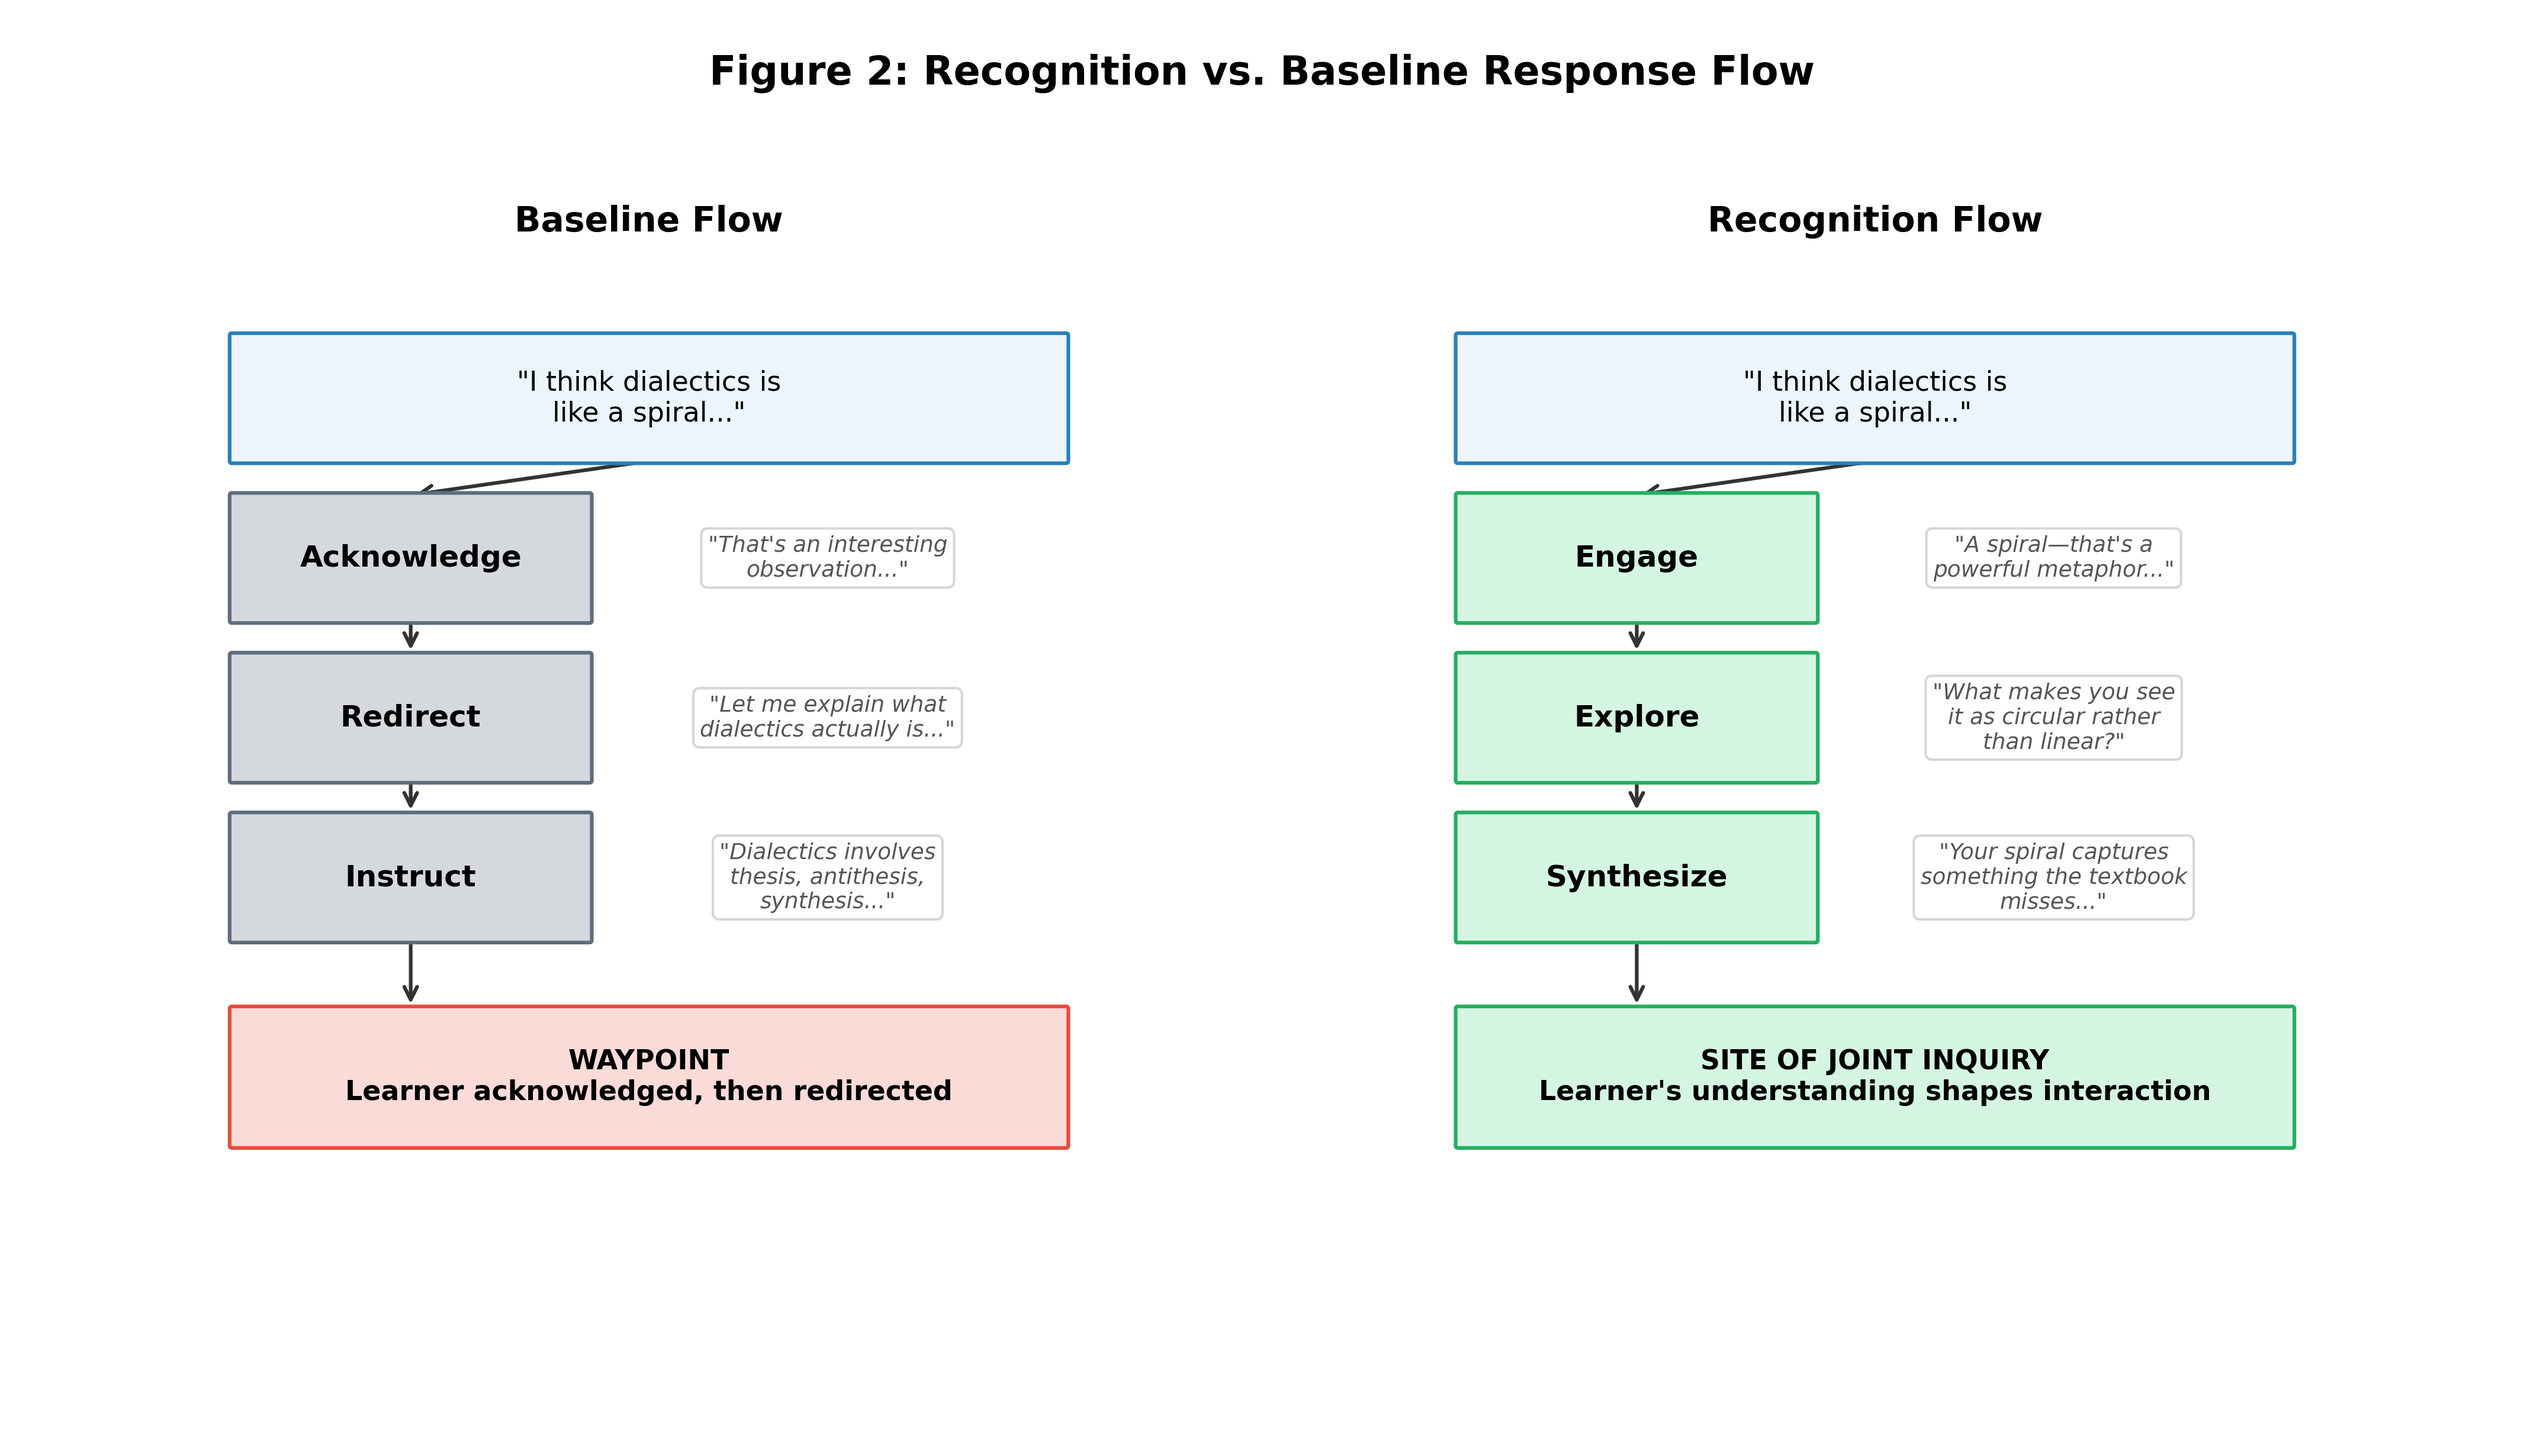
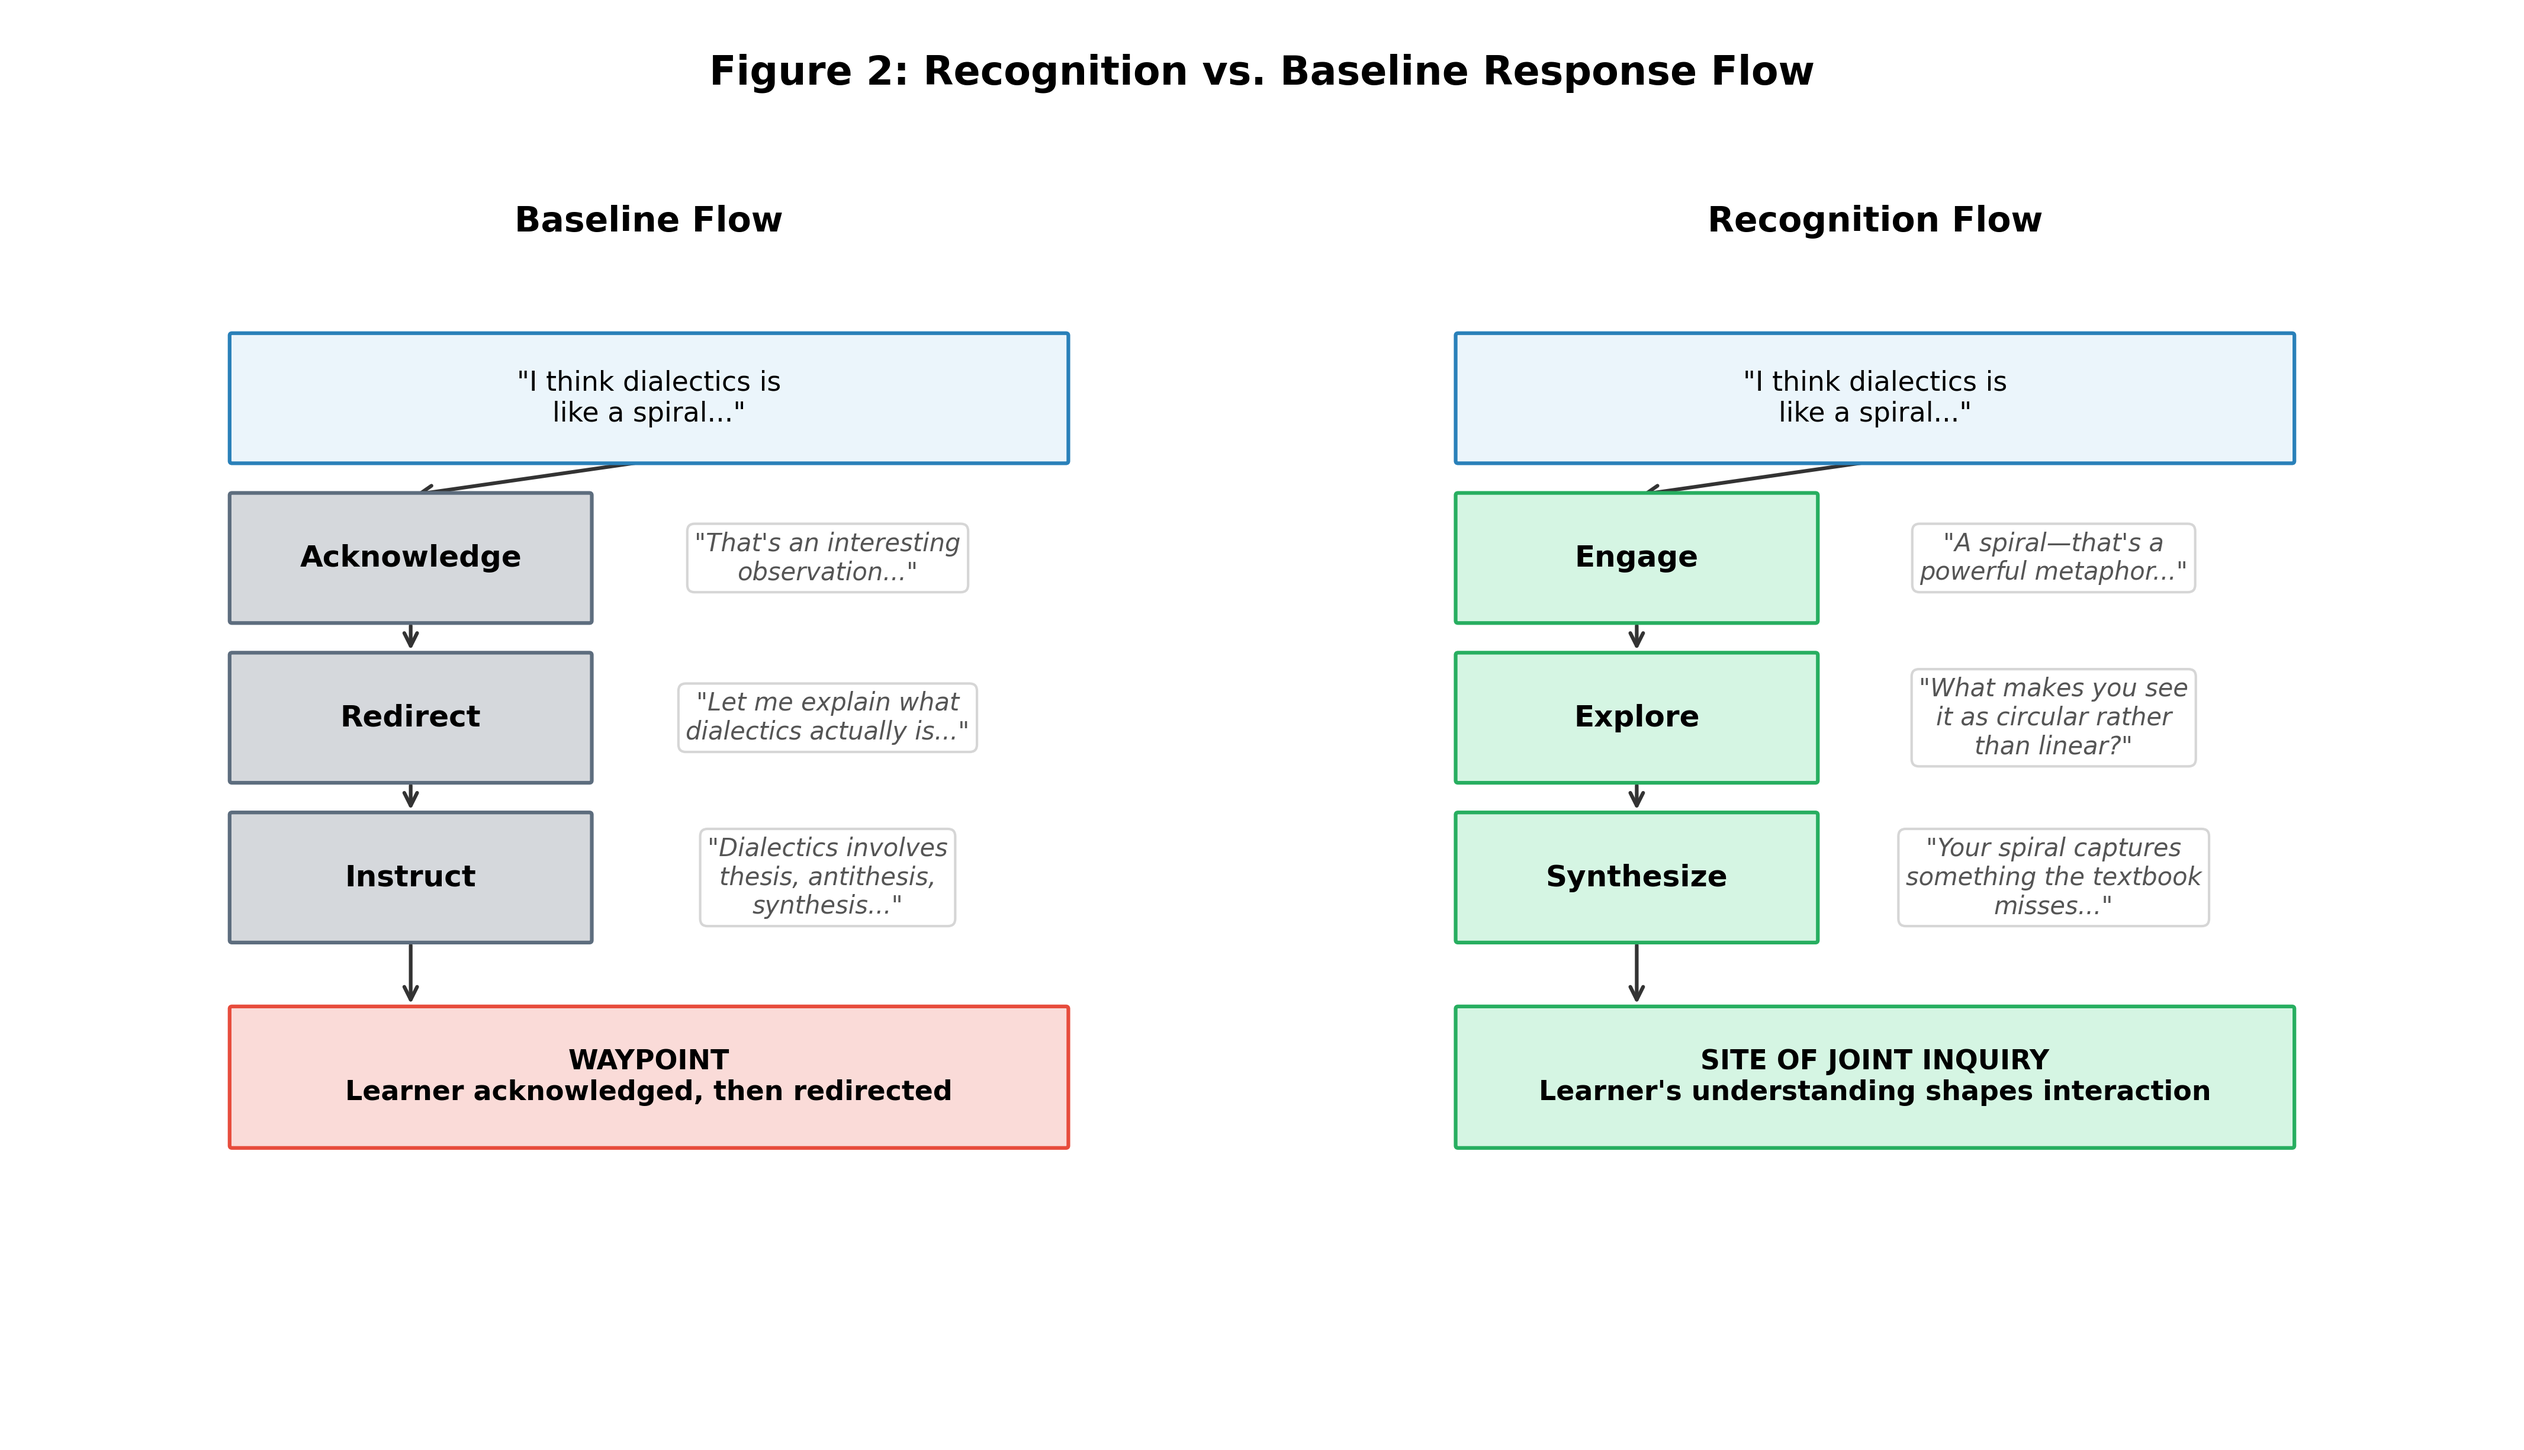
Regenerate paper figures: fix data, improve legibility (#4)
- Fix figure 5 data to match corrected paper table (Phil recognition
  13.9→15.4, Phil multi-agent 0.5→-0.8)
- Add clearpage between figures 1 and 2 to prevent cramming on one page
- Bump annotation font sizes for print legibility
- Regenerate all PNGs and both PDFs

diff --git a/scripts/generate-paper-figures.py b/scripts/generate-paper-figures.py
@@ -100,7 +100,7 @@ def figure1():
     # Arrows
     # Writing Pad -> Ego
     draw_arrow(ax, (3.0, 4.1), (4.0, 4.1))
-    ax.text(3.5, 4.4, 'Memory\ntraces', ha='center', va='bottom', fontsize=9,
+    ax.text(3.5, 4.4, 'Memory\ntraces', ha='center', va='bottom', fontsize=10,
             fontstyle='italic', color='#555555')
 
     # Ego -> Superego
@@ -172,7 +172,7 @@ def figure2():
         draw_box(ax1, (1.5, y), 3.0, 1.1, label,
                  facecolor=base_color, edgecolor=base_edge, fontsize=12, fontweight='bold')
         ax1.text(6.5, y + 0.55, detail, ha='center', va='center',
-                fontsize=9, fontstyle='italic', color='#555555',
+                fontsize=10, fontstyle='italic', color='#555555',
                 bbox=dict(boxstyle='round,pad=0.3', facecolor='white', edgecolor='#CCCCCC', alpha=0.8))
 
     # Outcome
@@ -203,7 +203,7 @@ def figure2():
         draw_box(ax2, (1.5, y), 3.0, 1.1, label,
                  facecolor=recog_color, edgecolor=recog_edge, fontsize=12, fontweight='bold')
         ax2.text(6.5, y + 0.55, detail, ha='center', va='center',
-                fontsize=9, fontstyle='italic', color='#555555',
+                fontsize=10, fontstyle='italic', color='#555555',
                 bbox=dict(boxstyle='round,pad=0.3', facecolor='white', edgecolor='#CCCCCC', alpha=0.8))
 
     # Outcome
@@ -316,7 +316,7 @@ def figure4():
 
     fig.text(0.12, 0.02, '** Significant synergy effect (p < .05); however, this did not replicate\n'
              '     in the 5-model probe (N=826, mean interaction = −2.2 pts)',
-             fontsize=10, fontstyle='italic', color='#777777')
+             fontsize=11, fontstyle='italic', color='#777777')
 
     fig.tight_layout(rect=[0, 0.1, 1, 1])
     fig.savefig(os.path.join(OUTPUT_DIR, 'figure4.png'))
@@ -330,7 +330,7 @@ def figure5():
     fig, ax = plt.subplots(figsize=(10, 5.5))
 
     factors = ['A: Recognition\nEffect', 'B: Multi-Agent\nEffect', 'C: Learner\nEffect']
-    phil = [13.9, 0.5, 2.1]
+    phil = [15.4, -0.8, 2.1]
     elem = [4.4, 9.9, 0.75]
 
     y = np.arange(len(factors))
@@ -343,13 +343,17 @@ def figure5():
 
     # Score labels
     for bar, val in zip(bars_phil, phil):
-        ax.text(val + 0.3, bar.get_y() + bar.get_height()/2, f'+{val}',
-                va='center', fontsize=12, fontweight='bold', color='#1A5276')
+        label = f'+{val}' if val >= 0 else f'{val}'
+        offset = 0.3 if val >= 0 else -0.3
+        ha = 'left' if val >= 0 else 'right'
+        ax.text(val + offset, bar.get_y() + bar.get_height()/2, label,
+                va='center', ha=ha, fontsize=12, fontweight='bold', color='#1A5276')
     for bar, val in zip(bars_elem, elem):
         ax.text(val + 0.3, bar.get_y() + bar.get_height()/2, f'+{val}',
                 va='center', fontsize=12, fontweight='bold', color='#784212')
 
-    ax.set_xlim(0, 18)
+    ax.set_xlim(-2, 18)
+    ax.axvline(x=0, color='#999999', linewidth=0.8, linestyle='-')
     ax.set_yticks(y)
     ax.set_yticklabels(factors, fontsize=13)
     ax.set_xlabel('Effect Size (points)', fontsize=14)
@@ -362,7 +366,7 @@ def figure5():
     fig.text(0.12, 0.02,
              'Factor dominance inverts: Philosophy favors recognition (A); Elementary favors architecture (B).\n'
              'Elementary recognition partially model-dependent (Kimi shows d ≈ 0.61).',
-             fontsize=10, fontstyle='italic', color='#777777')
+             fontsize=11, fontstyle='italic', color='#777777')
 
     fig.tight_layout(rect=[0, 0.1, 1, 1])
     fig.savefig(os.path.join(OUTPUT_DIR, 'figure5.png'))

diff --git a/docs/research/PAPER-FULL-2026-02-04.md b/docs/research/PAPER-FULL-2026-02-04.md
@@ -264,6 +264,8 @@ The Superego can accept, modify, or reject suggestions. This creates an internal
 
 ![Ego/Superego Architecture](figures/figure1.png){width=100%}
 
+\clearpage
+
 ![Recognition vs. Baseline Response Flow](figures/figure2.png){width=100%}
 
 ### 4.2 The Superego as Ghost
@@ -1222,7 +1224,15 @@ The stability data reinforces this reading. Base tutors show perfect consistency
 
 The practical implication is that recognition's effect on impasse resolution operates at the dialogue level rather than the turn level. Individual turns are the building blocks; the strategy emerges from their accumulation. This is itself a Hegelian insight: the dialectical encounter is not a single moment of recognition but a process that unfolds through successive engagements, each of which may appear incomplete in isolation.
 
-**Limitations**: The sample size is small (N=4 per cell per scenario, N=24 total). Learner messages are scripted rather than LLM-generated, which ensures consistent impasse conditions but may produce less naturalistic interactions. The strategy coding used a single LLM judge (Opus) without cross-judge validation; inter-rater reliability for the five-category coding scheme has not been established. The 100% base withdrawal rate, while striking, may partly reflect a coarse distinction—whether the tutor engages the impasse content at all—rather than fine-grained strategy discrimination. The scenarios test philosophy content only; whether impasse dynamics differ for other domains is unknown.
+#### Cross-Judge Validation of Strategy Coding
+
+To assess whether the strategy coding reflects genuine dialogue properties rather than judge-specific calibration, the same 24 dialogues were independently coded by GPT-5.2 (OpenAI) using the identical five-category scheme and prompt. Using a second state-of-the-art model from a different provider and training lineage ensures that any agreement reflects properties of the dialogues themselves rather than shared biases between models from the same family.
+
+Of 24 attempts, 23 produced valid codings (one API error). GPT-5.2 coded all 11 base dialogues as withdrawal (matching Opus 11/11) and all 12 recognition dialogues as scaffolded reframing. On 23 paired codings, the two judges agree on 21 (91.3%), with Cohen's $\kappa = 0.84$ (excellent inter-rater reliability). The two disagreements are both cases where Opus made finer distinctions within the engagement category: id 8150 (Opus: mutual recognition, GPT: scaffolded reframing) and id 8144 (Opus: domination, GPT: scaffolded reframing). GPT-5.2 sees all recognition tutors as doing the same thing—engaging and reframing—while Opus distinguishes edge cases within that category.
+
+On the core binary question—does the tutor engage the impasse or withdraw from it?—agreement is 23/23 (100%, $\kappa = 1.0$). The perfect separation between conditions replicates across both judges. This is consistent with the broader cross-judge pattern observed throughout the study (Section 6.15): GPT-5.2 finds the same direction with less nuance, compressing fine-grained distinctions while preserving the primary effect.
+
+**Limitations**: The sample size is small (N=4 per cell per scenario, N=24 total). Learner messages are scripted rather than LLM-generated, which ensures consistent impasse conditions but may produce less naturalistic interactions. The 100% base withdrawal rate, while striking, may partly reflect a coarse distinction—whether the tutor engages the impasse content at all—rather than fine-grained strategy discrimination. Cross-judge validation ($\kappa = 0.84$) confirms the primary finding but the two judges disagree on finer strategy distinctions within the engagement category. The scenarios test philosophy content only; whether impasse dynamics differ for other domains is unknown.
 
 ---
 
@@ -1480,7 +1490,7 @@ Key runs:
 | 2026-02-08 | v1.6 | **Content isolation fix**: Identified and fixed two bugs causing cross-domain content leakage in elementary scenarios: (a) `buildCurriculumContext()` fallback that scanned all courses when no content hint was provided, serving philosophy listings to elementary scenarios; (b) hardcoded `479-lecture-*` IDs in tutor ego prompt examples that the model copied when no curriculum anchor was present. Updated Sections 6.5, 6.6, 7.4, 7.8, and 8 to reframe "model hallucination" as system-level content isolation failures. Noted that the +9.9 pt architecture effect on elementary content (Nemotron) was partly inflated by these bugs; Kimi replication (+3.0 pts) is more representative. |
 | 2026-02-08 | v1.8 | **Dialectical impasse test**: Added Section 6.16 with three 5-turn impasse scenarios (epistemic resistance, affective shutdown, productive deadlock; N=24, eval-2026-02-08-f896275d, Opus judge). Recognition produces +43 pts on epistemic and +29 pts on interpretive impasses but $\Delta$=$-$1.1 on affective shutdown—sharpening the theoretical claim to epistemological rather than affective recognition. Updated §7.1 discussion, §9 conclusion (finding #8), Tables 2/D run lists, and paper totals. |
 | 2026-02-08 | v1.9 | **Learner superego paradox**: Added symmetric learner-side evaluation (Section 6.12) scoring N=118 bilateral dialogues with 6-dimension learner rubric (eval-2026-02-07-b6d75e87, Opus judge). Multi-agent learner architecture hurts learner quality (d=1.43, F=68.28, p<.001)—the largest effect in the study. Recognition partially rescues multi-agent learners (d=0.79, p=.004) but not single-agent (n.s.), forming a mirror-image interaction with the tutor-side factorial. Deliberation depth uniformly poor (2.7/5), unaffected by recognition. Added learner rubric description to §5.1, new §6.12 with Tables 14b-14d, rewrote §7.5 with results, added finding #9 to §9, learner superego redesign to §8.2. Renumbered §6.12→6.13, §6.13→6.14, §6.14→6.15, §6.15→6.16. Updated cross-references, Table 2, paper totals (N=1,628 across 20 key runs). |
-| 2026-02-08 | v2.0 | **Resolution strategy coding**: Post-hoc qualitative coding of all 24 dialectical impasse dialogues (eval-2026-02-08-f896275d) into five Hegelian resolution strategies (mutual recognition, domination, capitulation, withdrawal, scaffolded reframing). Perfect separation: 12/12 base tutors withdraw (bypass impasse entirely), 10/12 recognition tutors use scaffolded reframing (Aufhebung pattern), 1 mutual recognition, 1 domination. $\chi^2(3)=24.00$, $p<.001$, $V=1.000$. Architecture has no effect on strategy ($p=.576$). Added Table 26 and extended analysis to §6.16; substantially revised §7.1 discussion with mechanistic evidence. Strategy coding tool: `scripts/code-impasse-strategies.js`. |
+| 2026-02-08 | v2.0 | **Resolution strategy coding**: Post-hoc qualitative coding of all 24 dialectical impasse dialogues (eval-2026-02-08-f896275d) into five Hegelian resolution strategies (mutual recognition, domination, capitulation, withdrawal, scaffolded reframing). Perfect separation: 12/12 base tutors withdraw (bypass impasse entirely), 10/12 recognition tutors use scaffolded reframing (Aufhebung pattern), 1 mutual recognition, 1 domination. $\chi^2(3)=24.00$, $p<.001$, $V=1.000$. Architecture has no effect on strategy ($p=.576$). Cross-judge validation with GPT-5.2: $\kappa=0.84$, 100% agreement on engagement-vs-withdrawal binary. Added Tables 26–28, per-turn strategy evolution analysis, cross-judge validation, and extended analysis to §6.16; substantially revised §7.1 discussion with mechanistic evidence. Strategy coding tool: `scripts/code-impasse-strategies.js`. |
 
 ---
 

diff --git a/docs/research/PAPER-SHORT-2026-02-04.md b/docs/research/PAPER-SHORT-2026-02-04.md
@@ -199,6 +199,8 @@ We implement recognition through a multiagent architecture drawing on Freud's st
 
 ![Ego/Superego Architecture](figures/figure1.png){width=100%}
 
+\clearpage
+
 ![Recognition vs. Baseline Response Flow](figures/figure2.png){width=100%}
 
 ### 4.2 The Superego as Ghost
